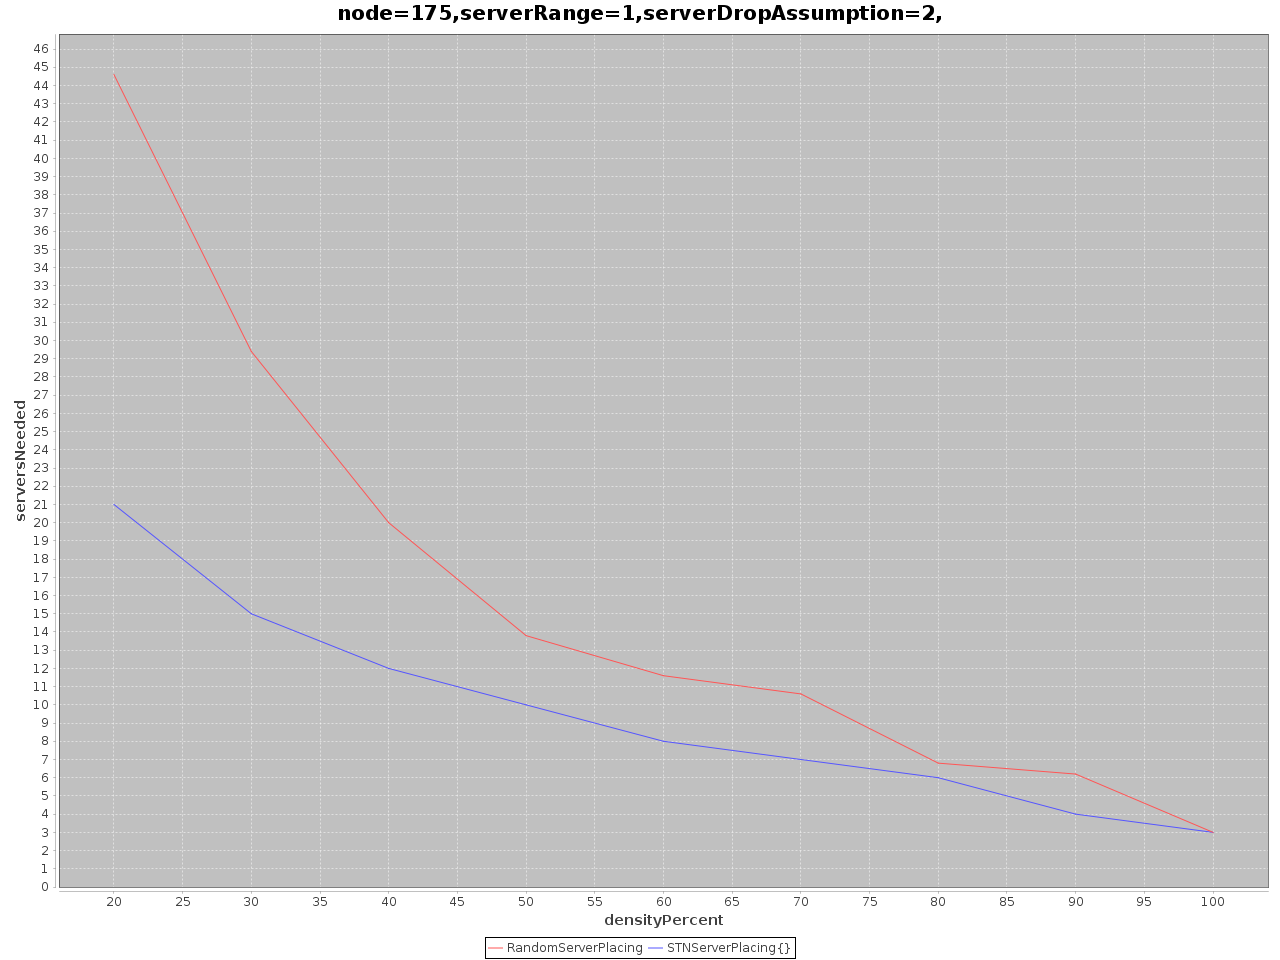
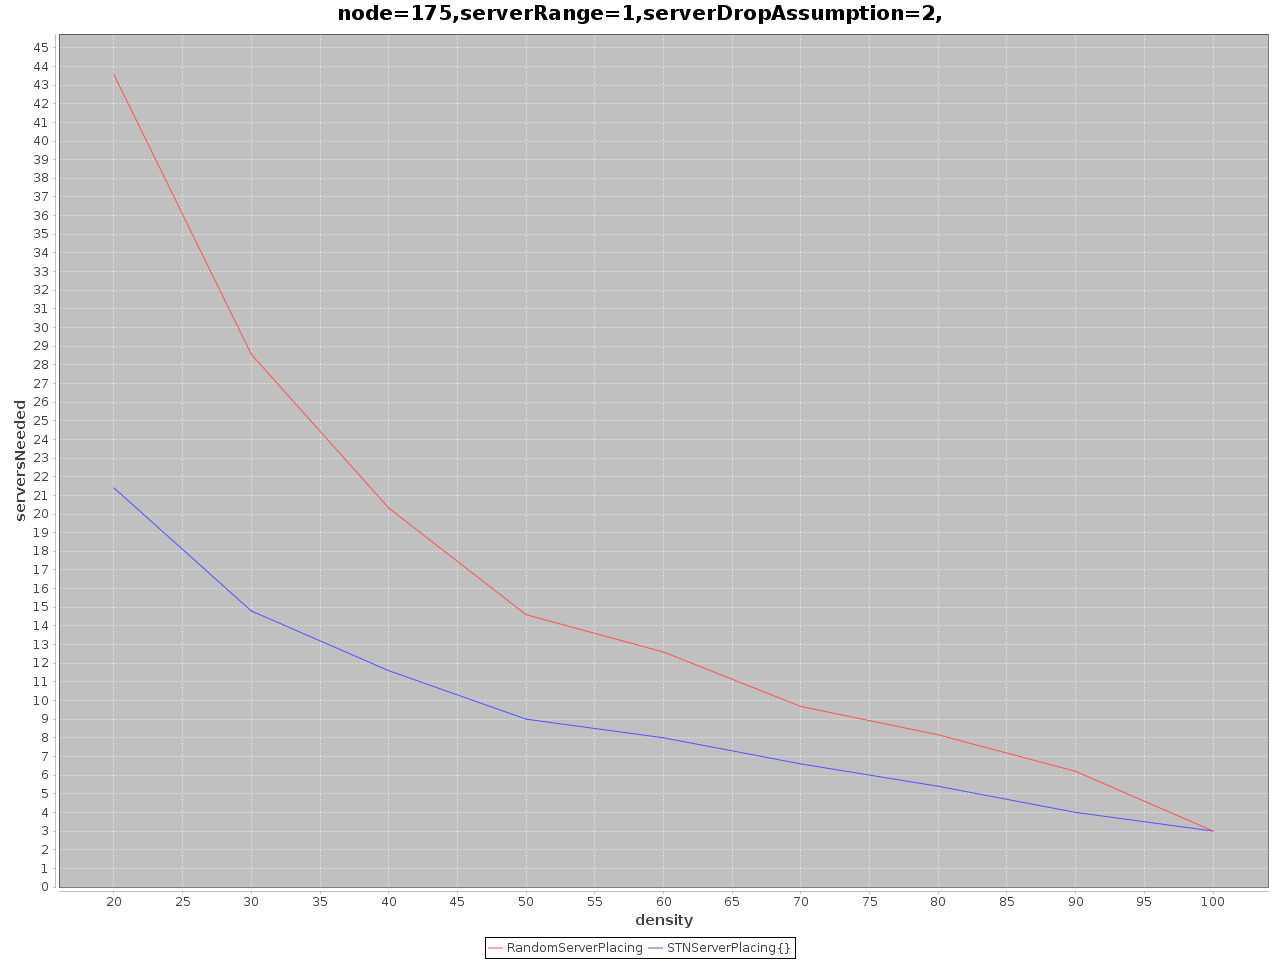
Written a pseudocode to give to Samia. Now simulating on Random graph gives us more descriptive graph file name. Generated some more pictures.

diff --git a/Undergrad Thesis Code/src/pseudocode/pseudocodeOfSTNServerPlacingAlgorithmGivenToSamiaOn_26_1_18.java b/Undergrad Thesis Code/src/pseudocode/pseudocodeOfSTNServerPlacingAlgorithmGivenToSamiaOn_26_1_18.java
@@ -1,0 +1,71 @@
+
+
+
+package pseudocode;
+
+/**
+ * Created by nafee on 1/26/18.
+ */
+public class pseudocodeOfSTNServerPlacingAlgorithmGivenToSamiaOn_26_1_18 {
+
+
+    placeServer(Graph graph, int serverRange, int serverDropAssumption)
+    {
+        For each node n in graph
+            serverCountWithinRange[n] = 0;
+
+        serverNodes = {}
+        nonServerNodes = {All nodes of graph}
+
+        while( There is such a non server node n such that
+            serverCountWithinRange[n] <= serverDropAssumption)
+        {
+            placeAnotherServer();
+        }
+    }
+
+
+
+    placeAnotherServer()
+    {
+        leastConnectedNonServerNodes = {All non server nodes n such that it has the lowest
+        serverCountWithinRange[n]  };
+
+
+        nodeToPlaceNewServer = getNodeToPlaceNewServer();
+
+
+        place the server in nodeToPlaceNewServer;
+        increment the value of serverCountWithinRange value of all nodes covered by the
+            newly placed server;
+        remove nodeToPlaceNewServer from the set nonServerNodes;
+        add nodeToPlaceNewServer to the set serverNodes;
+    }
+
+    Node getNodeToPlaceNewServer()
+    {
+        Node ret = null;
+        int maxNumberOfLeastConnectedNonServerNodesWithinServerRange = 0;
+
+        for each node n in nonServerNodes
+        {
+            run a bfs from n;
+            int numberOfLeastConnectedNonServerNodesWithinRange =
+                    count how many least Connected non Server Nodes are within server
+            Range of n;
+
+            if (numberOfLeastConnectedNonServerNodesWithinRange >=
+                    maxNumberOfLeastConnectedNonServerNodesWithinServerRange) {
+                ret = n;
+                maxNumberOfLeastConnectedNonServerNodesWithinServerRange =
+                        numberOfLeastConnectedNonServerNodesWithinRange;
+            }
+        }
+
+
+        return  ret;
+    }
+
+
+
+}

diff --git a/Undergrad Thesis Code/src/driver/Driver.java b/Undergrad Thesis Code/src/driver/Driver.java
@@ -13,9 +13,9 @@ public class Driver {
     public static void main(String[] args) {
 
 
-        int serverRang = 1;
-        Experiment experiment = ExperimentFactory.getFindingNumberOfServersNeededInWheelVaryingNodeCnt(serverRang);
-        experiment.doExperimentAndSaveChartAsImage();
+//        int serverRang = 1;
+//        Experiment experiment = ExperimentFactory.getFindingNumberOfServersNeededInWheelVaryingNodeCnt(serverRang);
+//        experiment.doExperimentAndSaveChartAsImage();
 
 
 
@@ -41,13 +41,13 @@ public class Driver {
 
 
 
-//        int serverRange = 1;
-//        for (int nodeCnt = 50; nodeCnt <= 200; nodeCnt += 25)
-//        {
-//            Experiment experiment =
-//                    ExperimentFactory.getFindingNumberOfServersNeededInRandomGraphVaryingDensity(nodeCnt, serverRange);
-//            experiment.doExperimentAndSaveChartAsImage();
-//        }
+        int serverRange = 1;
+        for (int nodeCnt = 50; nodeCnt <= 200; nodeCnt += 25)
+        {
+            Experiment experiment =
+                    ExperimentFactory.getFindingNumberOfServersNeededInRandomGraphVaryingDensity(nodeCnt, serverRange);
+            experiment.doExperimentAndSaveChartAsImage();
+        }
 
 
 

diff --git a/Undergrad Thesis Code/src/simulation/experiment/FindingNumberOfServersNeededInRandomGraphVaryingDensity.java b/Undergrad Thesis Code/src/simulation/experiment/FindingNumberOfServersNeededInRandomGraphVaryingDensity.java
@@ -17,7 +17,7 @@ public class FindingNumberOfServersNeededInRandomGraphVaryingDensity extends Fin
 
     @Override
     public String getName() {
-        String ret = "";
+        String ret = "FindingNumberOfServersNeededInRandomGraphVaryingDensity";
         ret += "node=" + nodeCnt + ",";
         ret += "serverRange=" + serverRange + ",";
         ret += "serverDropAssumption=" + serverDropAssumption + ",";
